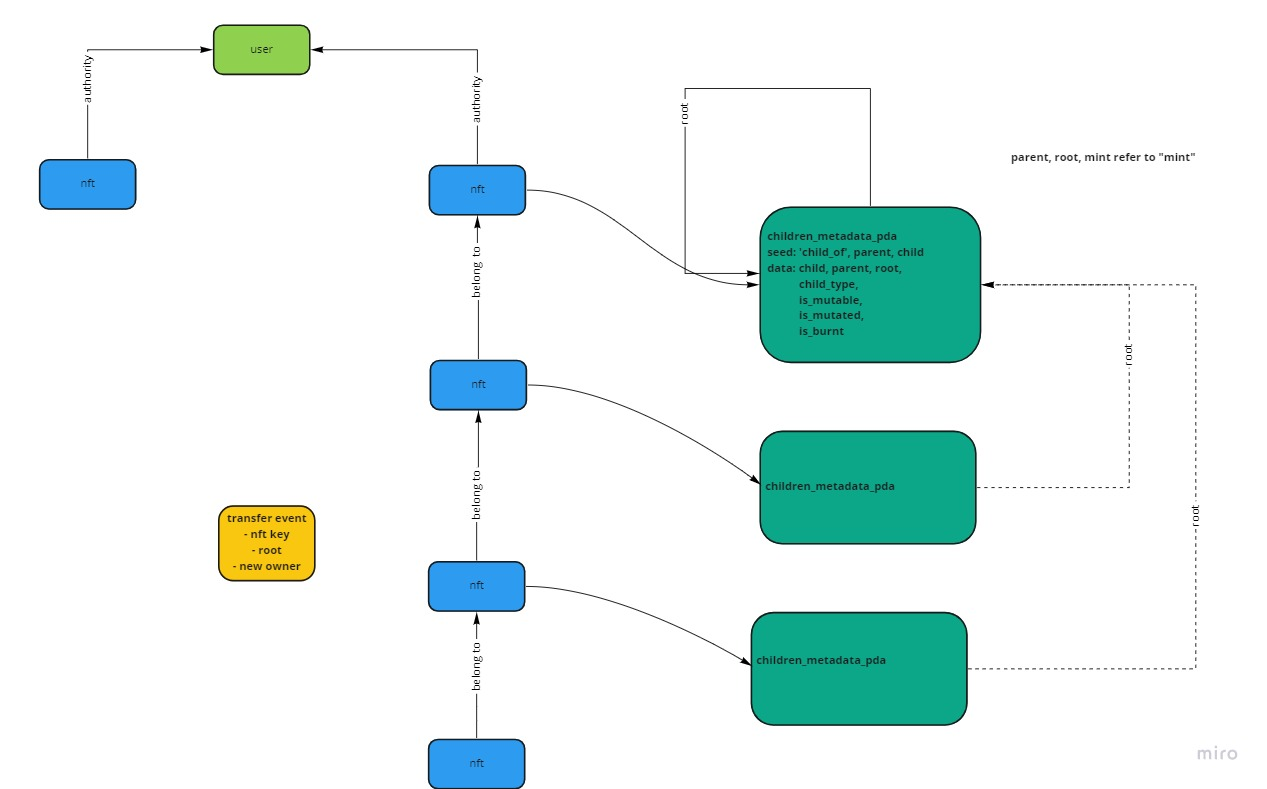
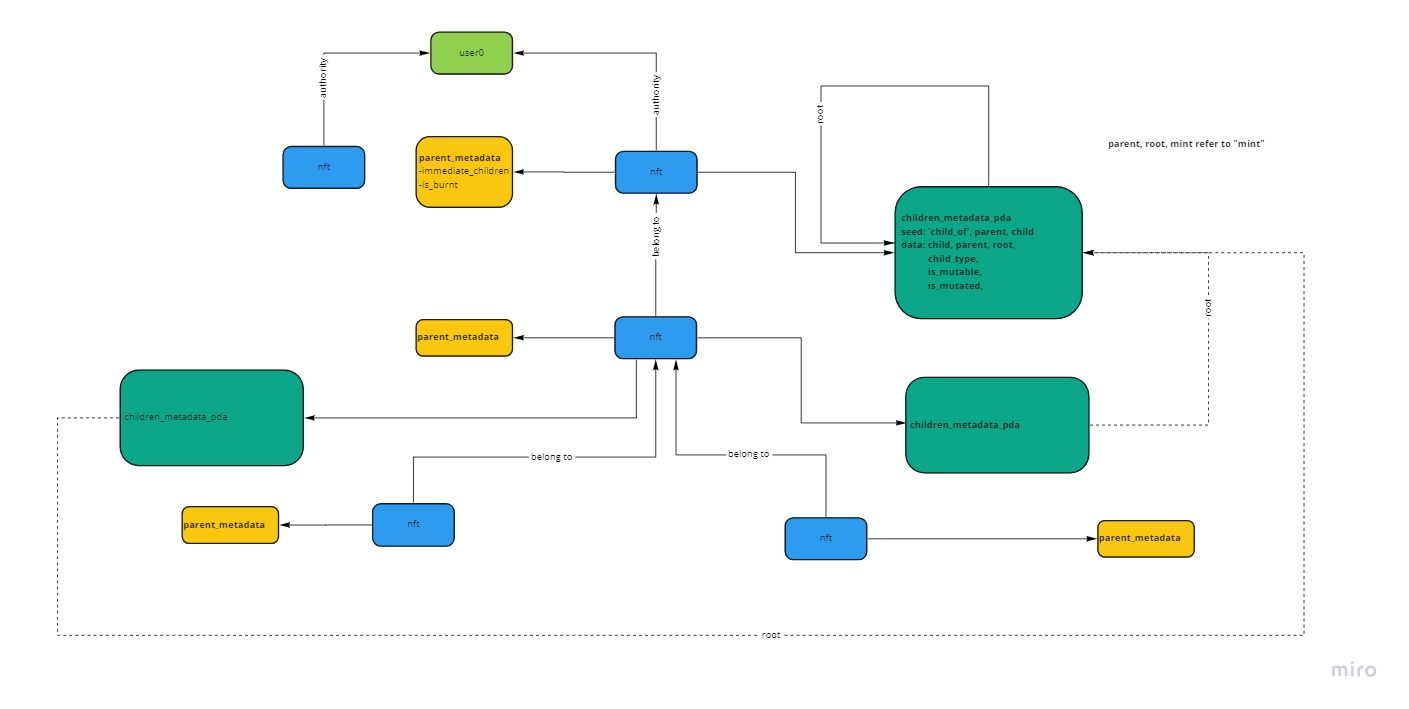
add  docks

diff --git a/docs/api-doc.md b/docs/api-doc.md
@@ -1,0 +1,48 @@
+## Architecture
+![arch](./architecture.jpg)
+### PDAs
+```
+#[account]
+pub struct ChildrenMetadataV2 { // binding parent-child relationships
+    // parent, mint refer to "mint", root refers to pda
+    pub child: Pubkey,
+    pub parent: Pubkey,
+    pub root: Pubkey,
+    pub is_mutable: bool,
+    pub is_burnt: bool,
+    pub is_mutated: bool,
+    pub child_type: ChildType,
+    pub bump: u8,
+}
+#[account]
+pub struct ParentMetadata { // pointer to nft's own
+    pub bump: u8,
+    pub is_burnt: bool,
+    pub height: u8,
+    pub immediate_children: [Pubkey; 3], // pointer to immediate children
+}
+#[account]
+pub struct SolAccount {   // store sol for associating nft
+    pub bump: u8,
+}
+```
+Based on the current model relationship, you can build multiple levels of NFT structure. When performing some operations(tranfer out/burn,etc), the protocol needs to update the relationship between parent and child NFT nodes. However, due to Solana's programming model, the protocol needs to update the data state of PDA asynchronously off-chain, which is called "crank" operation. According to crank PDA, the agreement will update the data in the way of breadth first search, and finally correct all the data.
+```
+#[account]
+pub struct CrankMetadata {
+    pub tranfered_nft: Pubkey, // nft mint account
+    pub old_root_meta_data: Pubkey, // old root meta data
+    pub new_root_meta_data: Pubkey, 
+    pub not_processed_children: [Pubkey; 32], // children nodes that have not been processed
+}
+```
+
+## API list
+* inject to root nft
+* inject to non-root nft
+* inject sol
+* transfer/extract child nft 
+* burn root nft for sol
+* burn root nft only
+* copy nft
+
